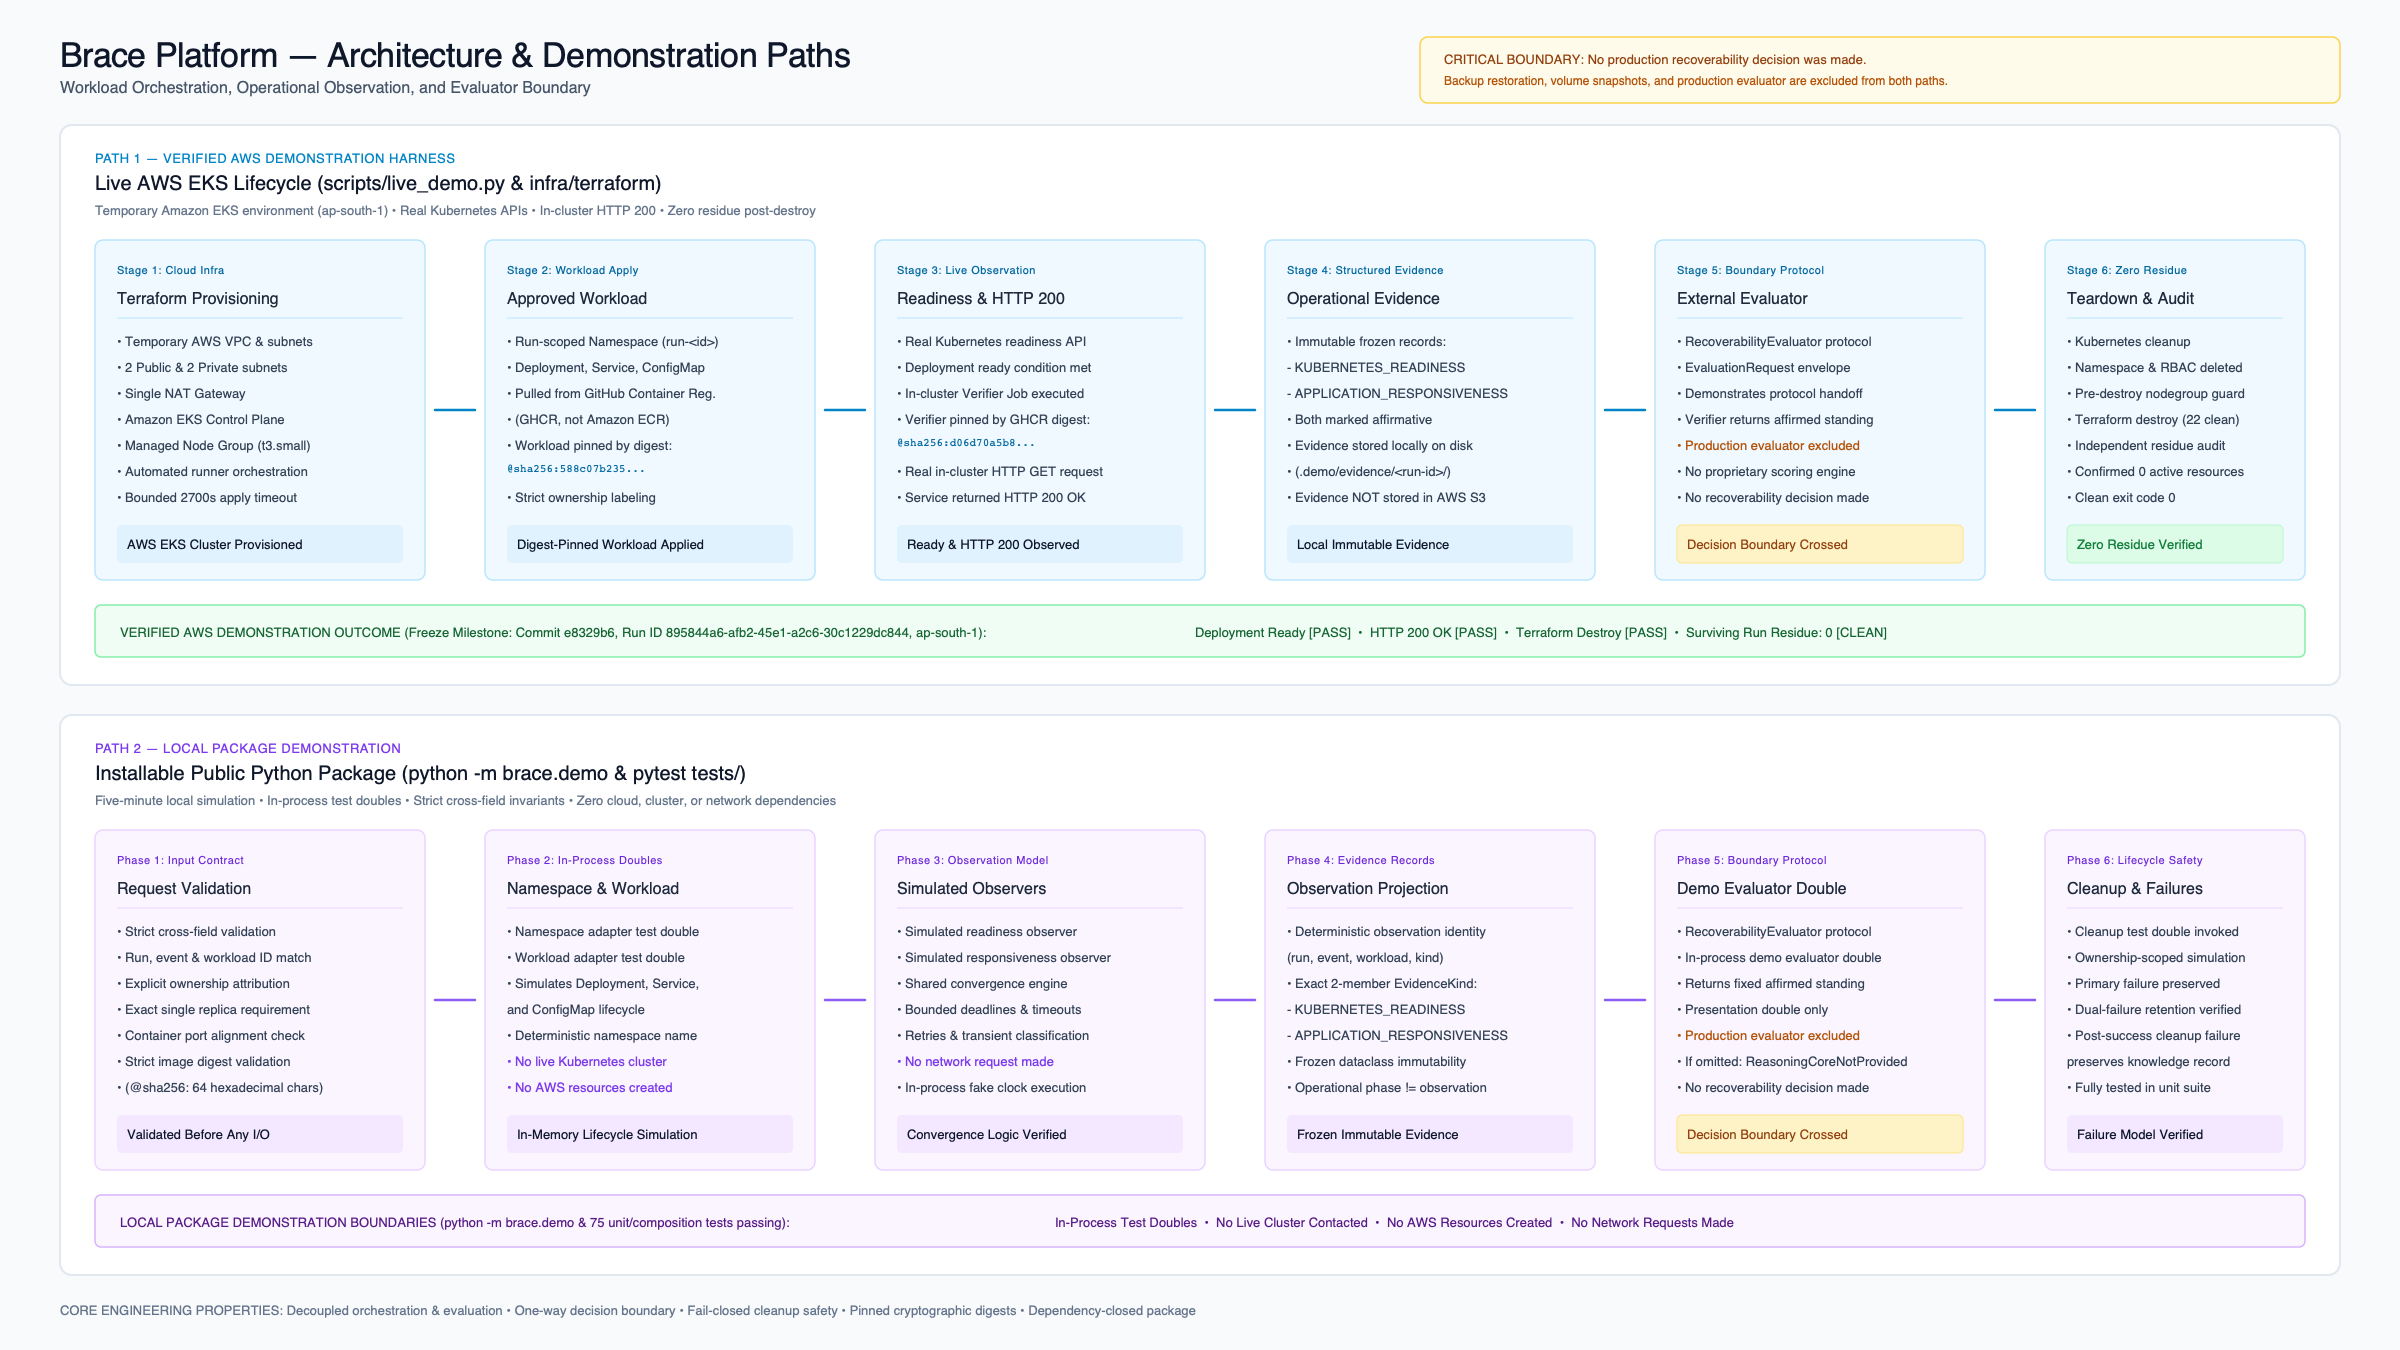
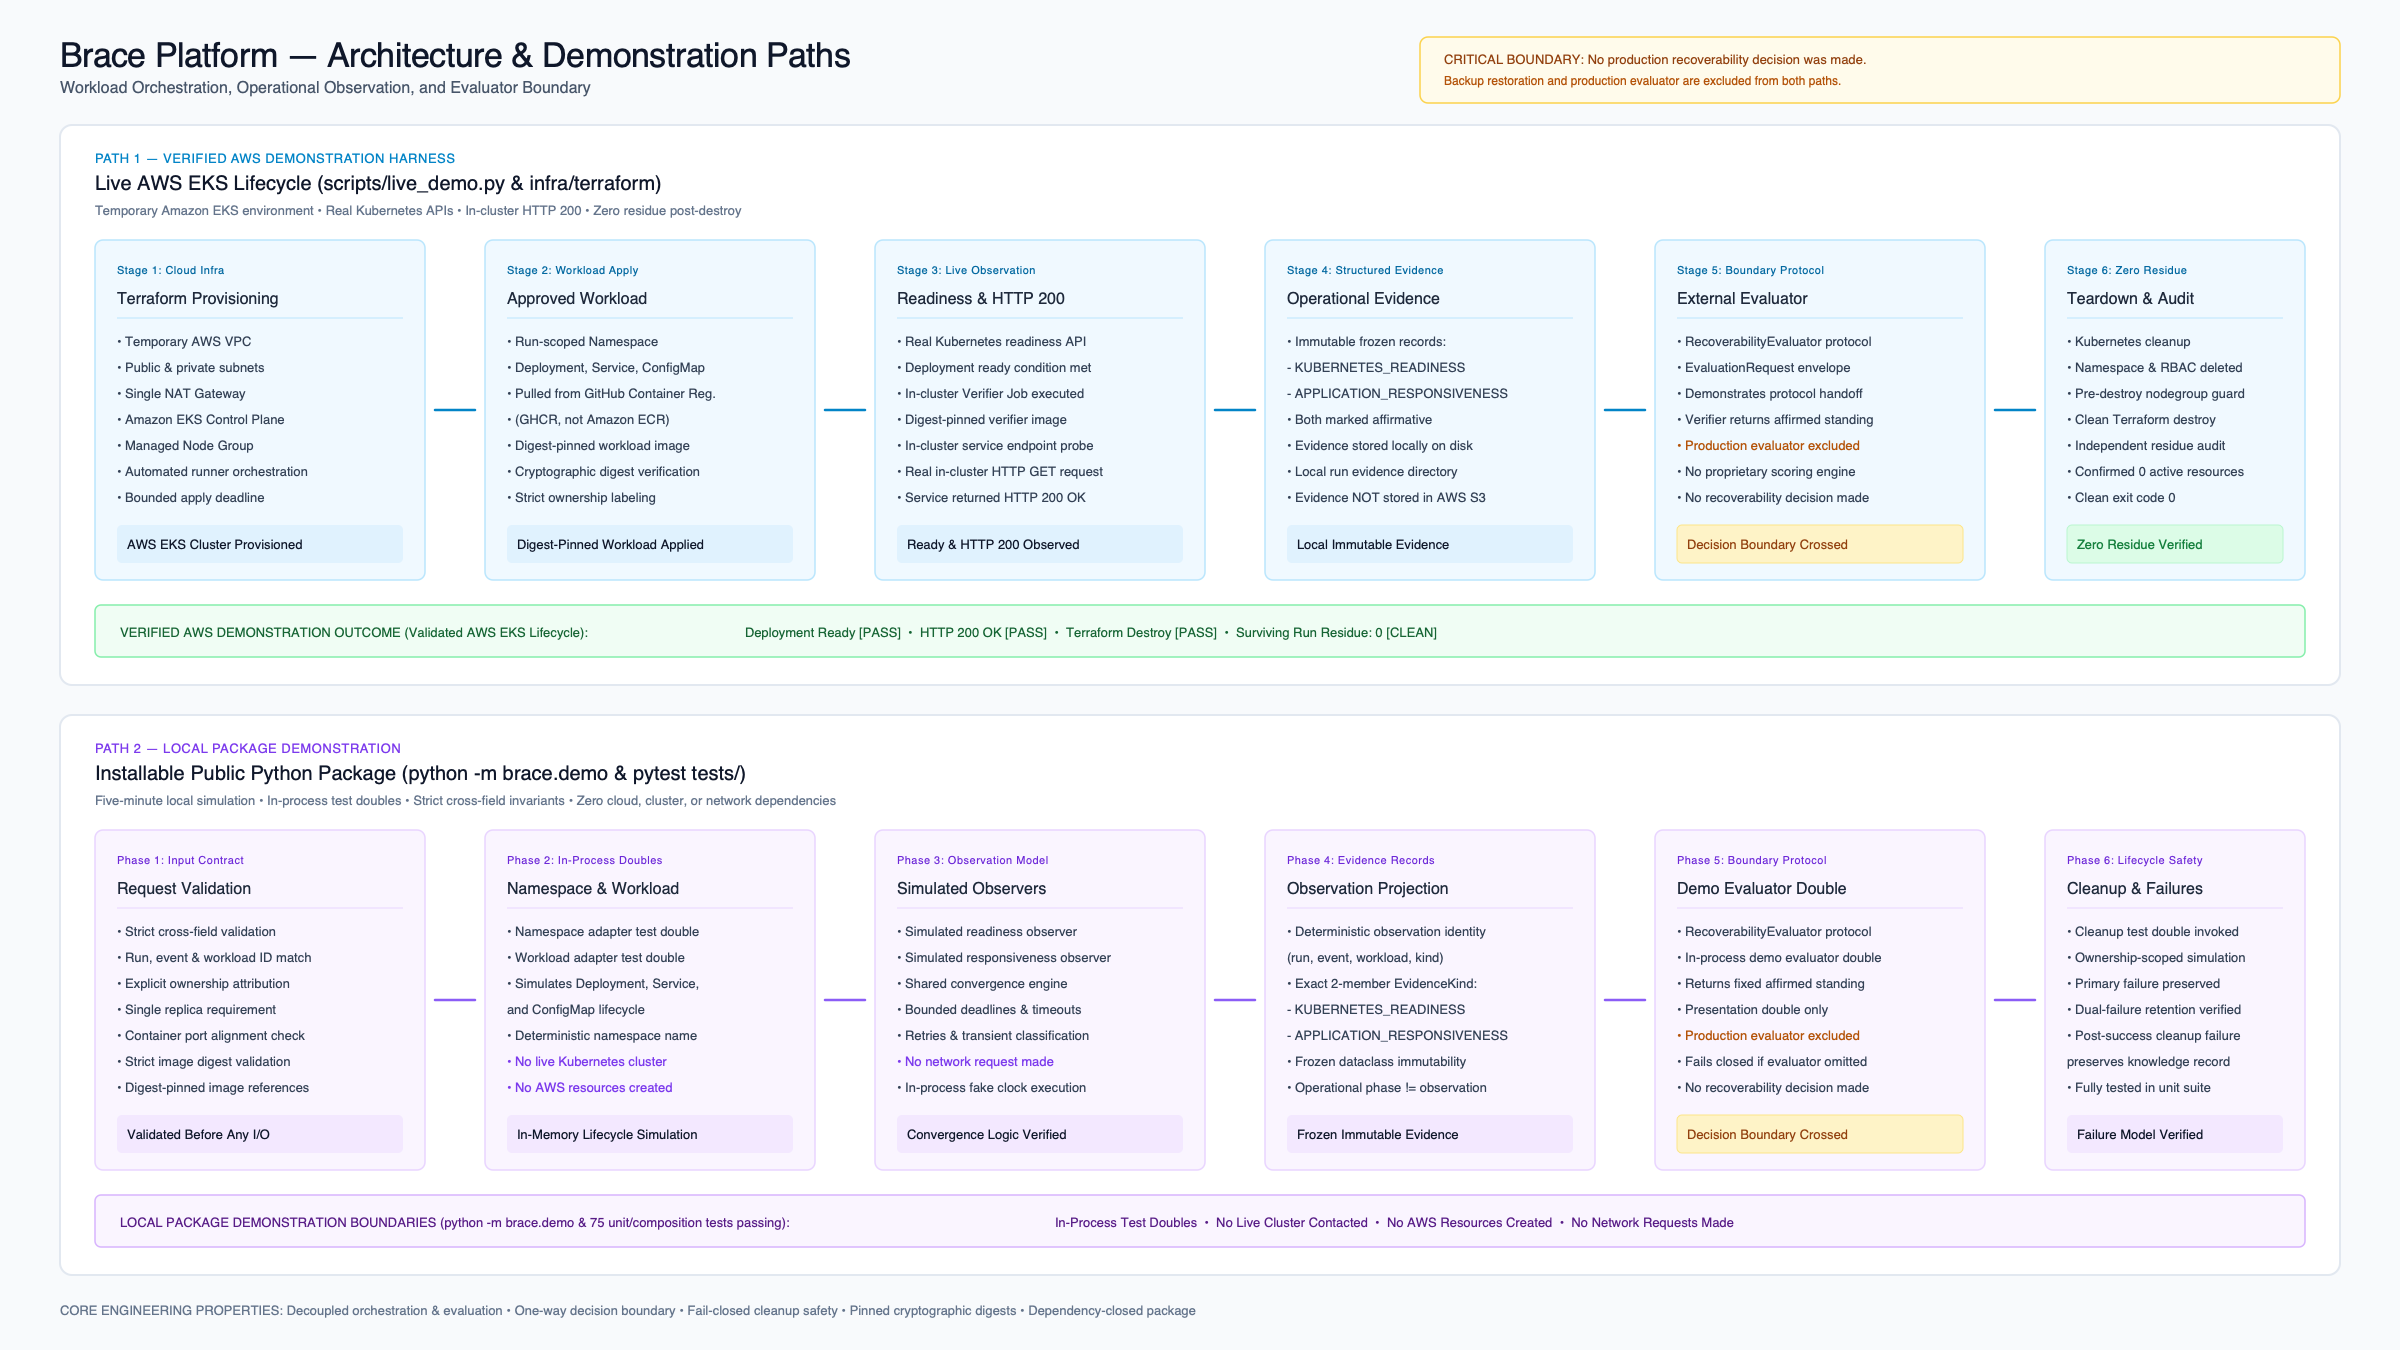
docs: sanitize operational details from architecture diagram

diff --git a/docs/assets/brace-platform-architecture-source.md b/docs/assets/brace-platform-architecture-source.md
@@ -11,7 +11,7 @@ This document contains the maintainable Mermaid source specification correspondi
 The architecture presents two related but separate demonstration surfaces:
 
 1. **Top Path: Verified AWS Demonstration Harness**
-   Standalone Terraform infrastructure (`infra/terraform`) and lifecycle orchestration runner (`scripts/live_demo.py`) validated on Amazon EKS in AWS region `ap-south-1`. Pulls digest-pinned images from GitHub Container Registry (GHCR), observes genuine Kubernetes deployment readiness and in-cluster HTTP 200 responses, stores evidence locally on disk, destroys all 22 cloud resources, and verifies zero cloud residue.
+   Standalone Terraform infrastructure (`infra/terraform`) and lifecycle orchestration runner (`scripts/live_demo.py`) validated on Amazon EKS in AWS region `ap-south-1`. Pulls digest-pinned images from GitHub Container Registry (GHCR), observes genuine Kubernetes deployment readiness and in-cluster HTTP 200 responses, stores evidence locally on disk, destroys temporary cloud resources, and verifies zero cloud residue.
 
 2. **Bottom Path: Local Package Demonstration**
    Installable Python package (`python -m brace.demo`) orchestrating strict cross-field request validation, run-scoped namespace lifecycle, workload application, bounded readiness and HTTP observation, immutable observation projection, boundary protocol handoff, and ownership-scoped cleanup using in-process test doubles. Operates with zero cluster, cloud, or network dependencies.
@@ -39,17 +39,17 @@ flowchart TD
     subgraph Path1["TOP PATH: VERIFIED AWS DEMONSTRATION HARNESS (scripts/live_demo.py & infra/terraform)"]
         direction LR
 
-        P1_TF["<b>1. Terraform Provisioning</b><br/>• Temporary AWS VPC & subnets<br/>• 2 Public & 2 Private subnets<br/>• Single NAT Gateway<br/>• Amazon EKS & Node Group<br/>• 1x t3.small compute node<br/>• Bounded 2700s apply timeout"]:::awsNode
+        P1_TF["<b>1. Terraform Provisioning</b><br/>• Temporary AWS VPC<br/>• Public & private subnets<br/>• Single NAT Gateway<br/>• Amazon EKS Control Plane<br/>• Managed Node Group<br/>• Bounded apply deadline"]:::awsNode
 
-        P1_WL["<b>2. Approved Workload</b><br/>• Run-scoped Namespace (run-id)<br/>• Deployment, Service, ConfigMap<br/>• GitHub Container Registry (GHCR)<br/>• Digest-pinned workload image:<br/>  @sha256:588c07b235...<br/>• Strict ownership labeling"]:::awsNode
+        P1_WL["<b>2. Approved Workload</b><br/>• Run-scoped Namespace<br/>• Deployment, Service, ConfigMap<br/>• GitHub Container Registry (GHCR)<br/>• Digest-pinned workload image<br/>• Strict ownership labeling"]:::awsNode
 
-        P1_OBS["<b>3. Real In-Cluster Observation</b><br/>• Real Kubernetes readiness API<br/>• Deployment ready condition met<br/>• In-cluster Verifier Job executed<br/>• Digest-pinned verifier image:<br/>  @sha256:d06d70a5b8...<br/>• Real HTTP 200 OK observed"]:::awsNode
+        P1_OBS["<b>3. Real In-Cluster Observation</b><br/>• Real Kubernetes readiness API<br/>• Deployment ready condition met<br/>• In-cluster Verifier Job executed<br/>• Digest-pinned verifier image<br/>• Real HTTP 200 OK observed"]:::awsNode
 
         P1_EVI["<b>4. Operational Evidence</b><br/>• Immutable observation records:<br/>  - KUBERNETES_READINESS<br/>  - APPLICATION_RESPONSIVENESS<br/>• Stored locally (.demo/evidence/)<br/>• NOT stored in Amazon S3<br/>• Sanitized command logs"]:::awsNode
 
         P1_EVAL["<b>5. Evaluator Boundary</b><br/>• RecoverabilityEvaluator protocol<br/>• Demonstration verifier double<br/>• Fixed affirmed standing returned<br/>• Production evaluator EXCLUDED<br/>• No proprietary decision logic<br/>• <i>No production decision made</i>"]:::boundaryNode
 
-        P1_CLEAN["<b>6. Teardown & Audit</b><br/>• Kubernetes cleanup (NS, RBAC, Job)<br/>• Pre-destroy nodegroup guard<br/>• Terraform destroy (22 clean)<br/>• Independent residue audit<br/>• Confirmed 0 active resources<br/>• Clean exit code 0"]:::outcomeNode
+        P1_CLEAN["<b>6. Teardown & Audit</b><br/>• Kubernetes cleanup (NS, RBAC, Job)<br/>• Pre-destroy nodegroup guard<br/>• Clean Terraform destroy<br/>• Independent residue audit<br/>• Confirmed 0 active resources<br/>• Clean exit code 0"]:::outcomeNode
 
         P1_TF --> P1_WL --> P1_OBS --> P1_EVI --> P1_EVAL --> P1_CLEAN
     end
@@ -60,7 +60,7 @@ flowchart TD
     subgraph Path2["BOTTOM PATH: LOCAL PACKAGE DEMONSTRATION (python -m brace.demo & pytest tests/)"]
         direction LR
 
-        P2_VAL["<b>1. Request Validation</b><br/>• Strict cross-field invariants<br/>• Run, event & workload matching<br/>• Single replica requirement<br/>• Port alignment verification<br/>• Image digest format validation<br/>• (@sha256:64 hex chars)"]:::localNode
+        P2_VAL["<b>1. Request Validation</b><br/>• Strict cross-field invariants<br/>• Run, event & workload matching<br/>• Single replica requirement<br/>• Port alignment verification<br/>• Digest-pinned image references"]:::localNode
 
         P2_DBL["<b>2. Namespace & Workload Doubles</b><br/>• In-process namespace double<br/>• In-process workload double<br/>• Simulates Deployment, Service,<br/>  and ConfigMap lifecycle<br/>• Deterministic naming<br/>• <b>No live cluster contacted</b>"]:::localNode
 
@@ -68,7 +68,7 @@ flowchart TD
 
         P2_PROJ["<b>4. Operational Projection</b><br/>• Deterministic observation IDs<br/>• Exact 2-member EvidenceKind:<br/>  - KUBERNETES_READINESS<br/>  - APPLICATION_RESPONSIVENESS<br/>• Frozen dataclass records<br/>• Lifecycle phase != observation"]:::localNode
 
-        P2_EVAL["<b>5. Demo Evaluator Double</b><br/>• RecoverabilityEvaluator protocol<br/>• In-process demo evaluator double<br/>• Fixed affirmed standing returned<br/>• Production evaluator EXCLUDED<br/>• ReasoningCoreNotProvided on None<br/>• <i>No production decision made</i>"]:::boundaryNode
+        P2_EVAL["<b>5. Demo Evaluator Double</b><br/>• RecoverabilityEvaluator protocol<br/>• In-process demo evaluator double<br/>• Fixed affirmed standing returned<br/>• Production evaluator EXCLUDED<br/>• Fails closed if evaluator omitted<br/>• <i>No production decision made</i>"]:::boundaryNode
 
         P2_CLEAN["<b>6. Cleanup Double & Failure Model</b><br/>• In-process cleanup double<br/>• Ownership-scoped deletion<br/>• Primary failure preservation<br/>• Dual-failure retention verified<br/>• Post-success cleanup failure handling<br/>• <b>No AWS resources created</b>"]:::localOutcomeNode
 
@@ -95,6 +95,6 @@ flowchart TD
 | **Evaluator Protocol** | External `RecoverabilityEvaluator` boundary | External `RecoverabilityEvaluator` boundary |
 | **Production Evaluator** | Excluded (demonstration verifier returns affirmed standing) | Excluded (demo double returns affirmed standing) |
 | **Production Decision** | **No production recoverability decision was made** | **No production recoverability decision was made** |
-| **Teardown & Cleanup** | Namespace deleted; 22 Terraform resources destroyed | In-process cleanup double executed |
+| **Teardown & Cleanup** | Namespace deleted; Terraform resources destroyed | In-process cleanup double executed |
 | **Residue Audit** | Independent AWS CLI audit confirmed 0 surviving resources | Not applicable (in-memory execution) |
 | **Backup Restoration** | Excluded (not implemented or exercised) | Excluded (not implemented or exercised) |
